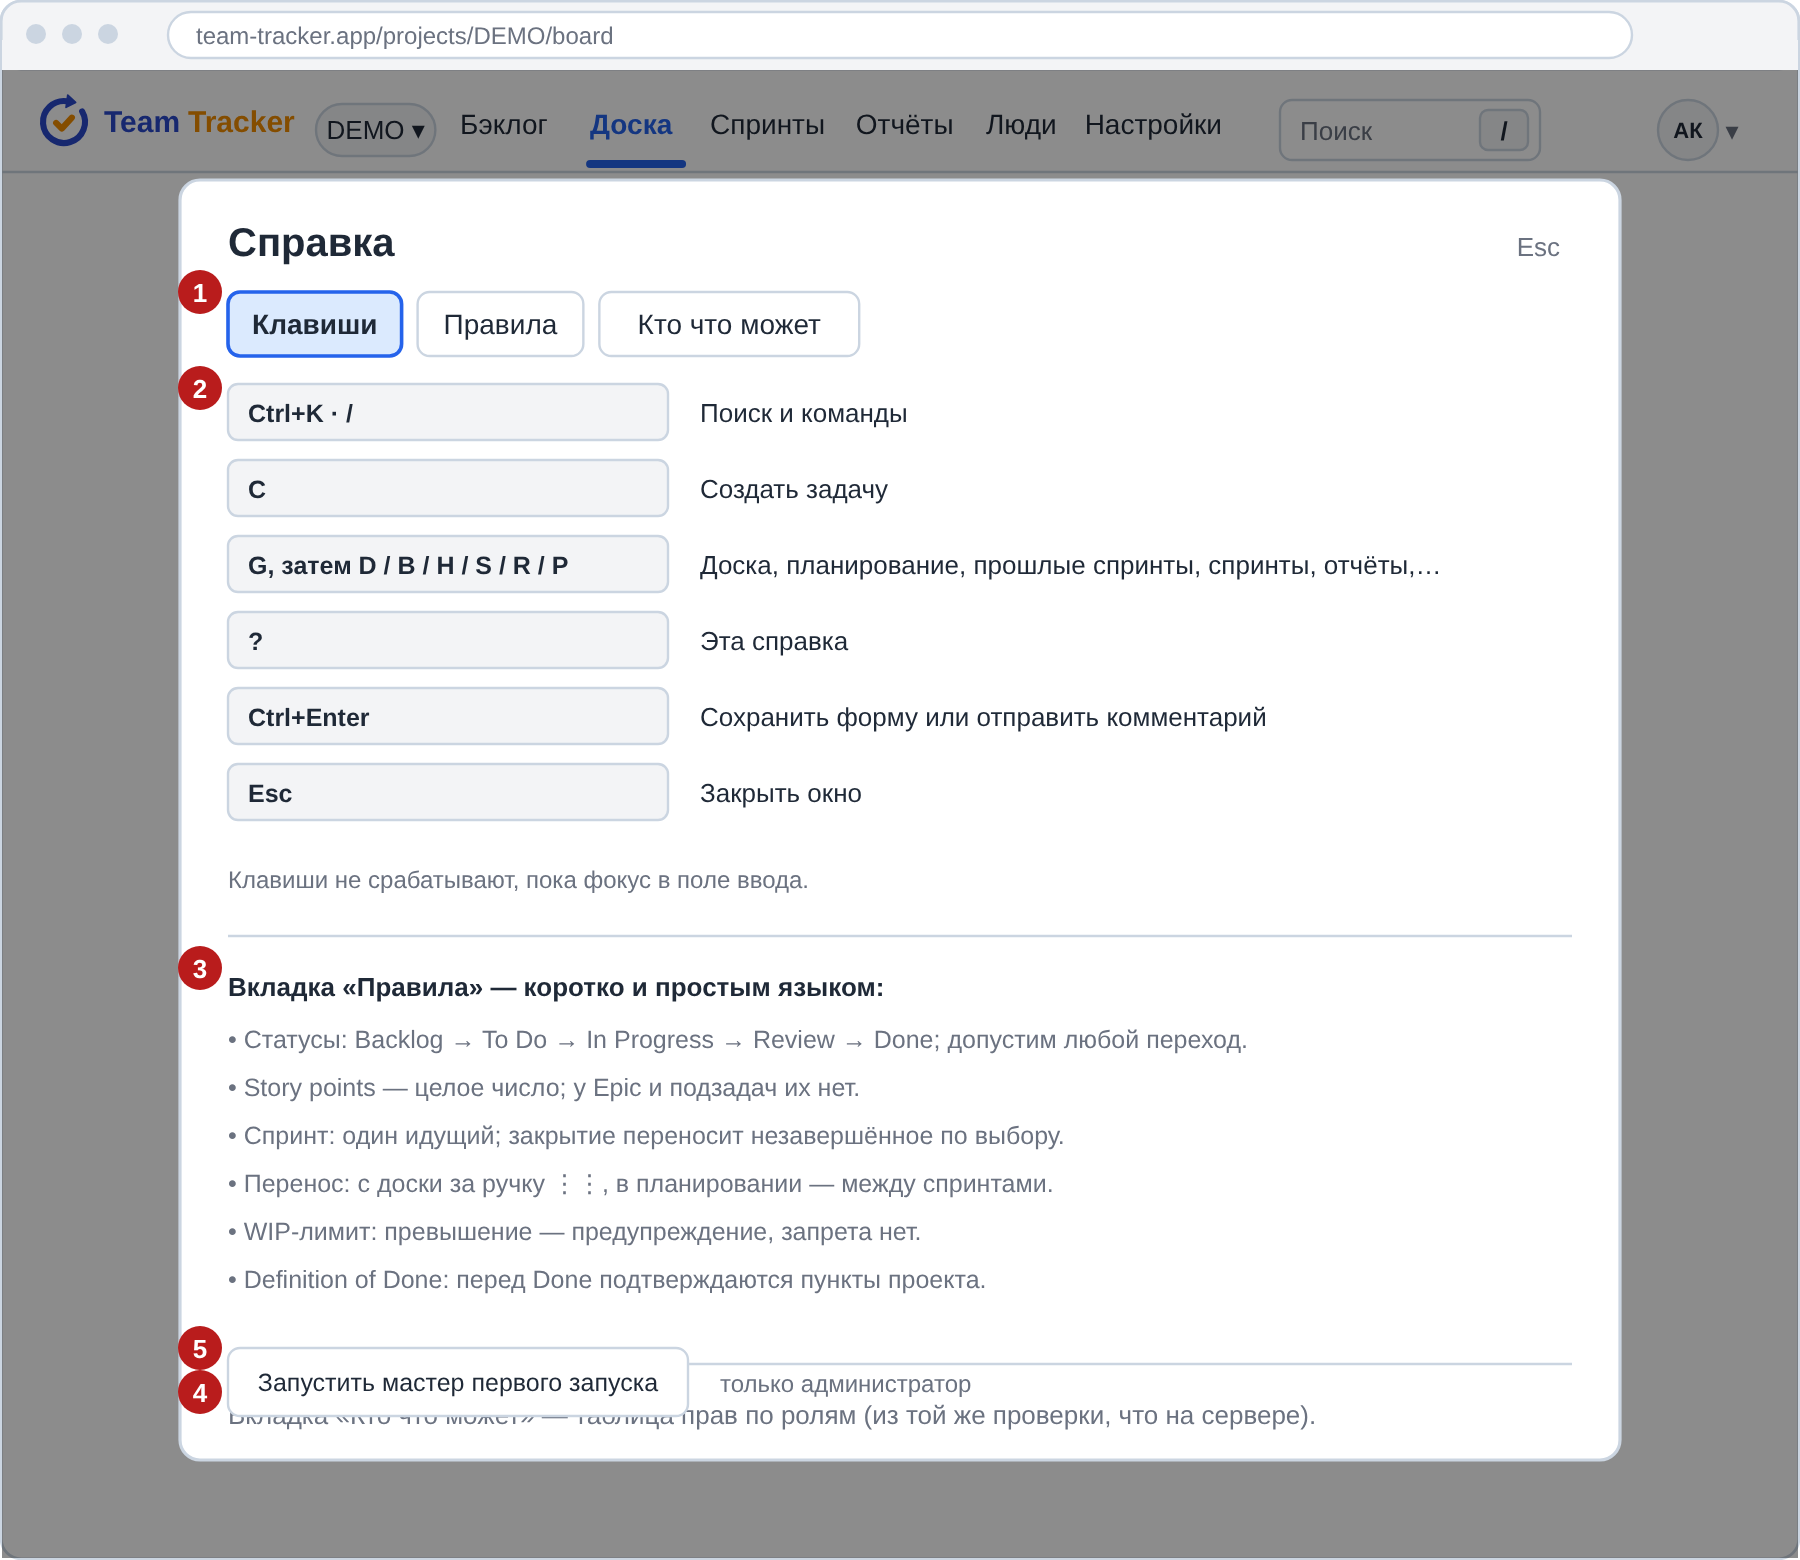
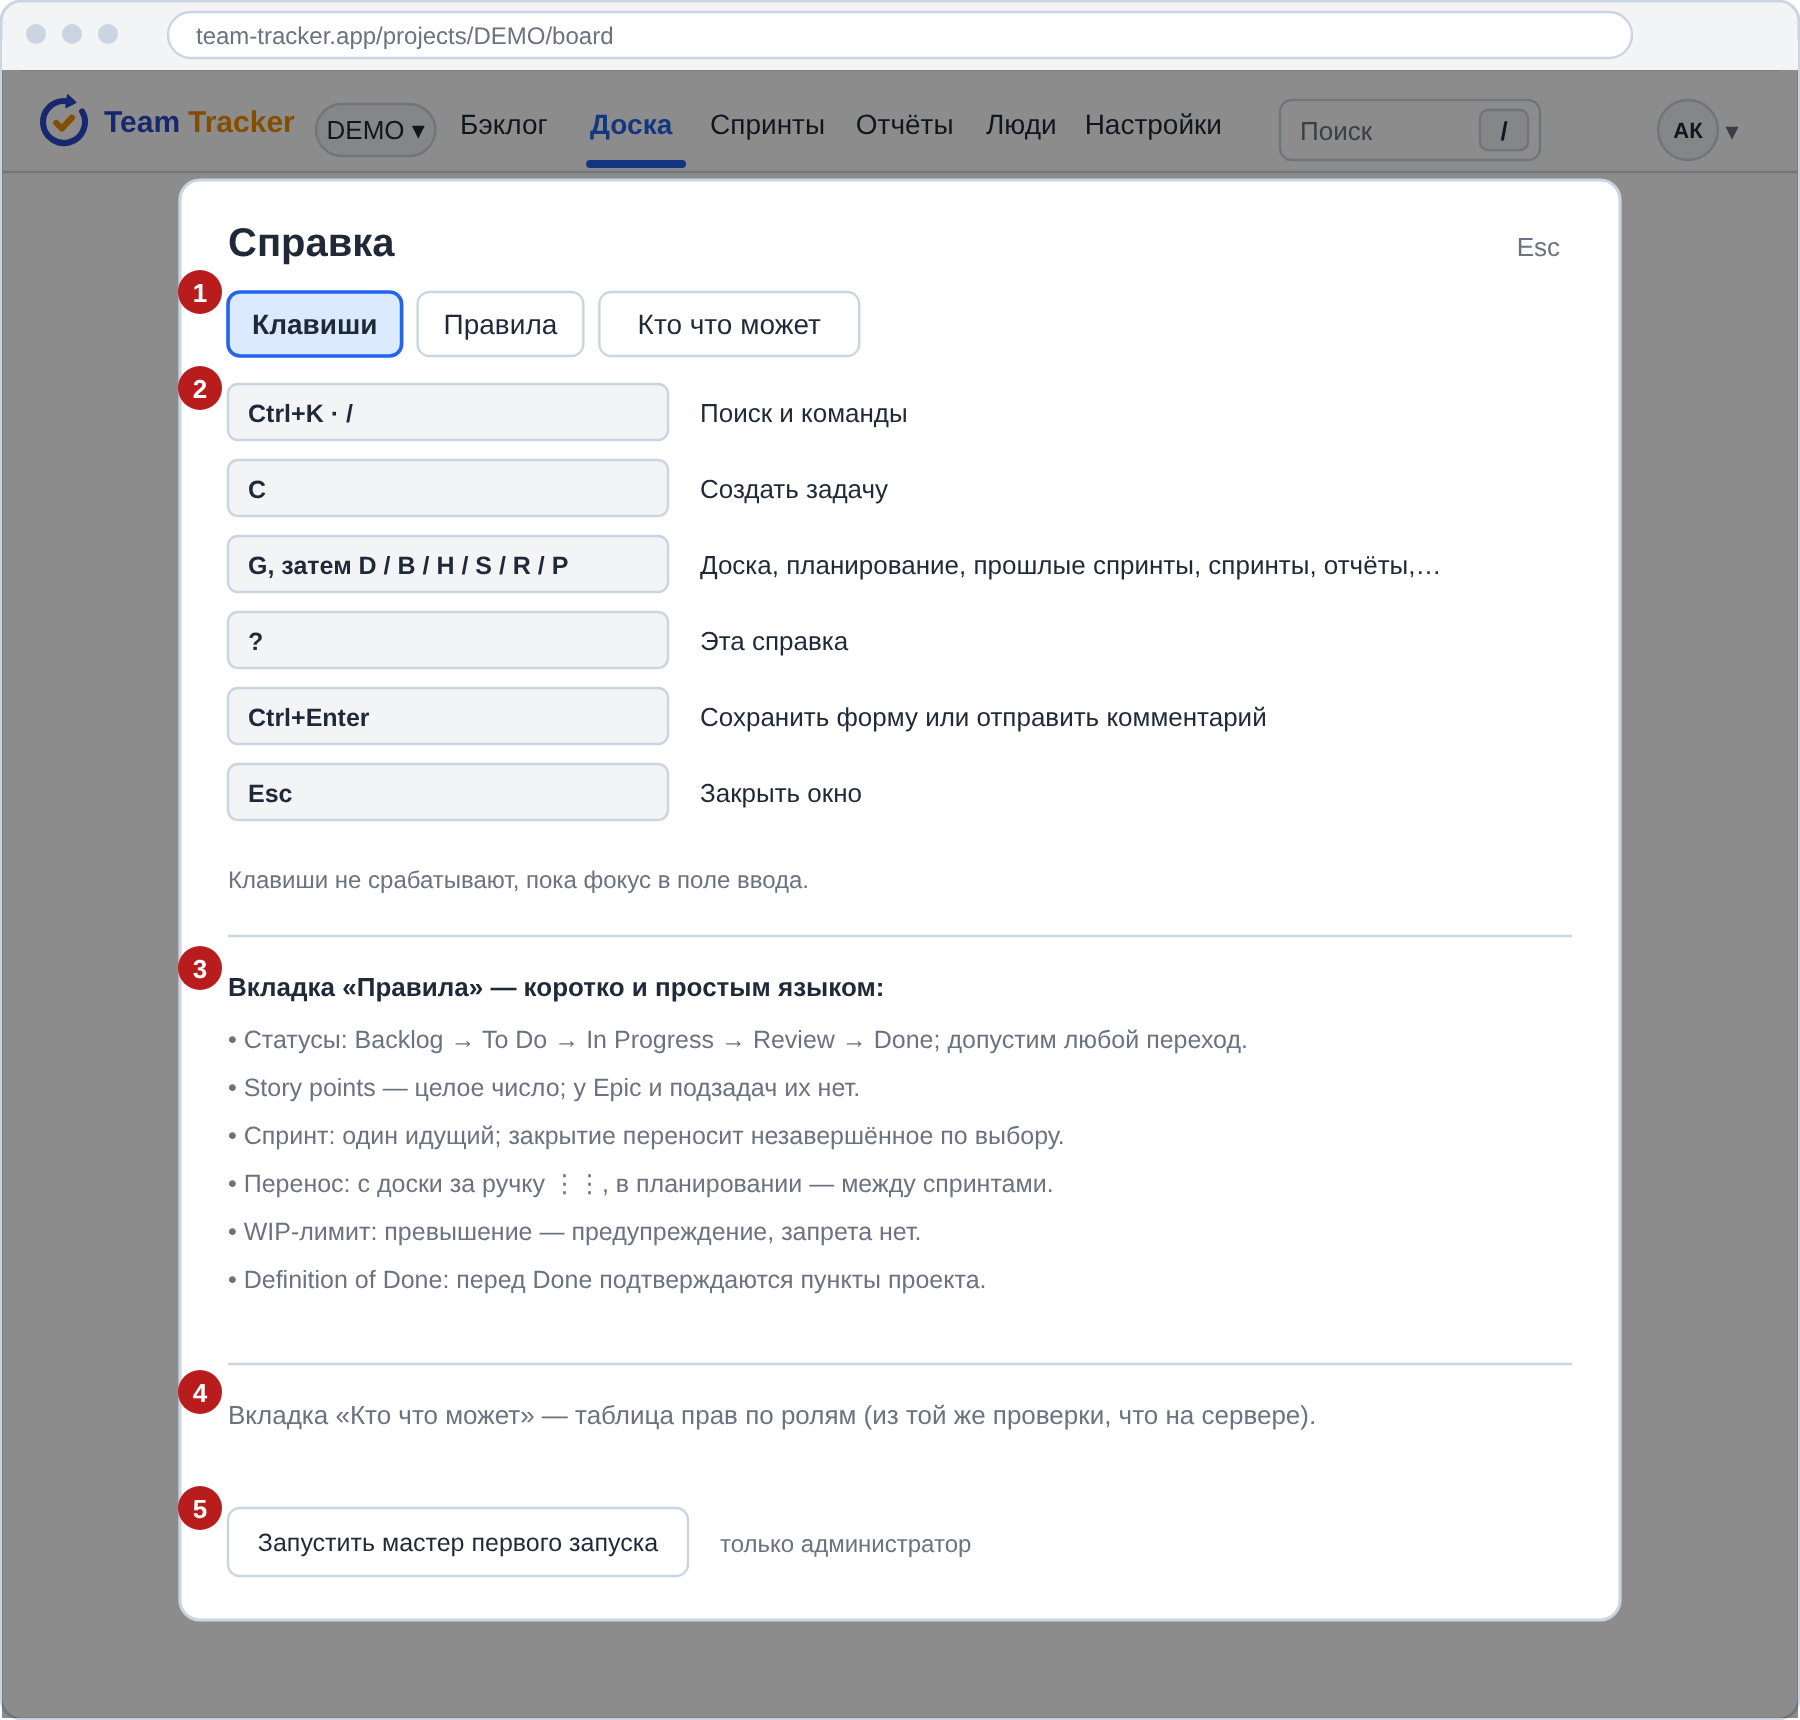
docs: поправка эскиза справки

Changed region(s): [[0.0, 0.0, 1.0, 0.5231], [0.0933, 0.5538, 0.9022, 0.9538]]

diff --git a/scripts/build_wireframes.py b/scripts/build_wireframes.py
@@ -2573,11 +2573,11 @@ def screen_wizard():
 
 
 def screen_help():
-    wf = WF(780, "Встроенная справка по «?»")
+    wf = WF(860, "Встроенная справка по «?»")
     t = wf.t
     wf.shell(f"team-tracker.app/projects/{KEY}/board", "Доска")
     wf.overlay()
-    mx, my, mw, mh = 90, 90, 720, 640
+    mx, my, mw, mh = 90, 90, 720, 720
     wf.rect(mx, my, mw, mh, fill=t["bg"], stroke=t["line"], r=10, sw=1.6)
     wf.text(mx + 24, my + 38, "Справка", 20, bold=True)
     wf.text(mx + mw - 30, my + 38, "Esc", 13, "end", fill=t["muted"])
